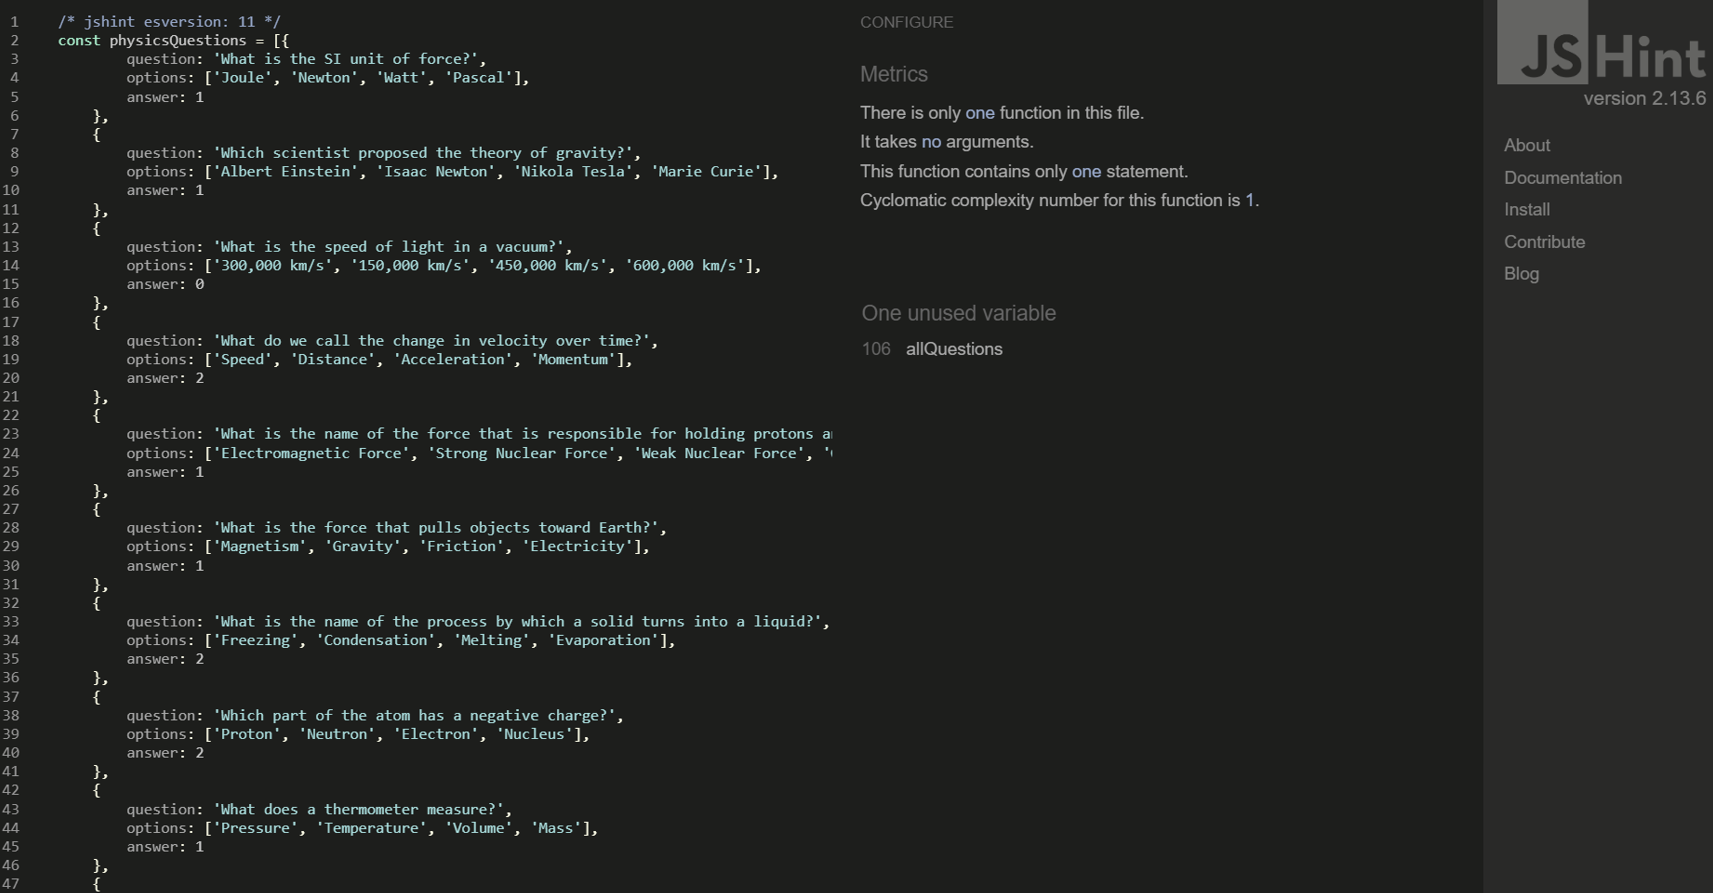
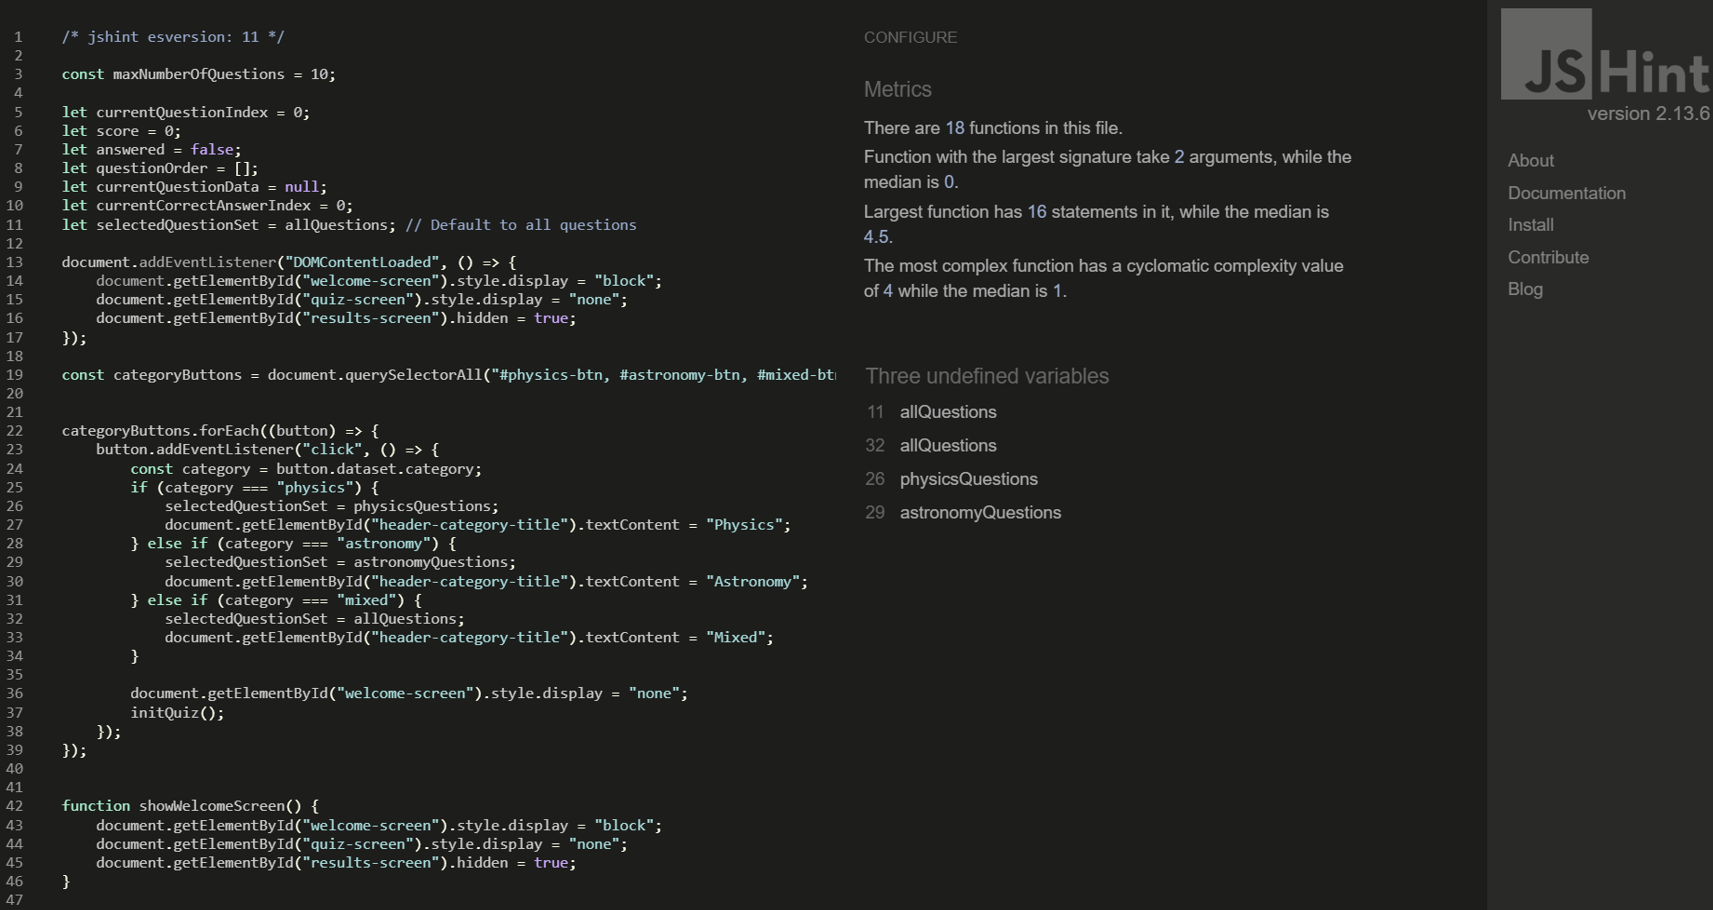
Add js questions validation in TESTING.md

diff --git a/TESTING.md b/TESTING.md
@@ -13,6 +13,9 @@ initial-push
 >JS
 ![](documentation/validation/js-validation.png)
 
+>JS - Qestions
+![](documentation/validation/js-questions-validation.png)
+
 >Lighthouse - Desktop
 ![](documentation/lighthouse/lighthouse-desktop.png)
 
